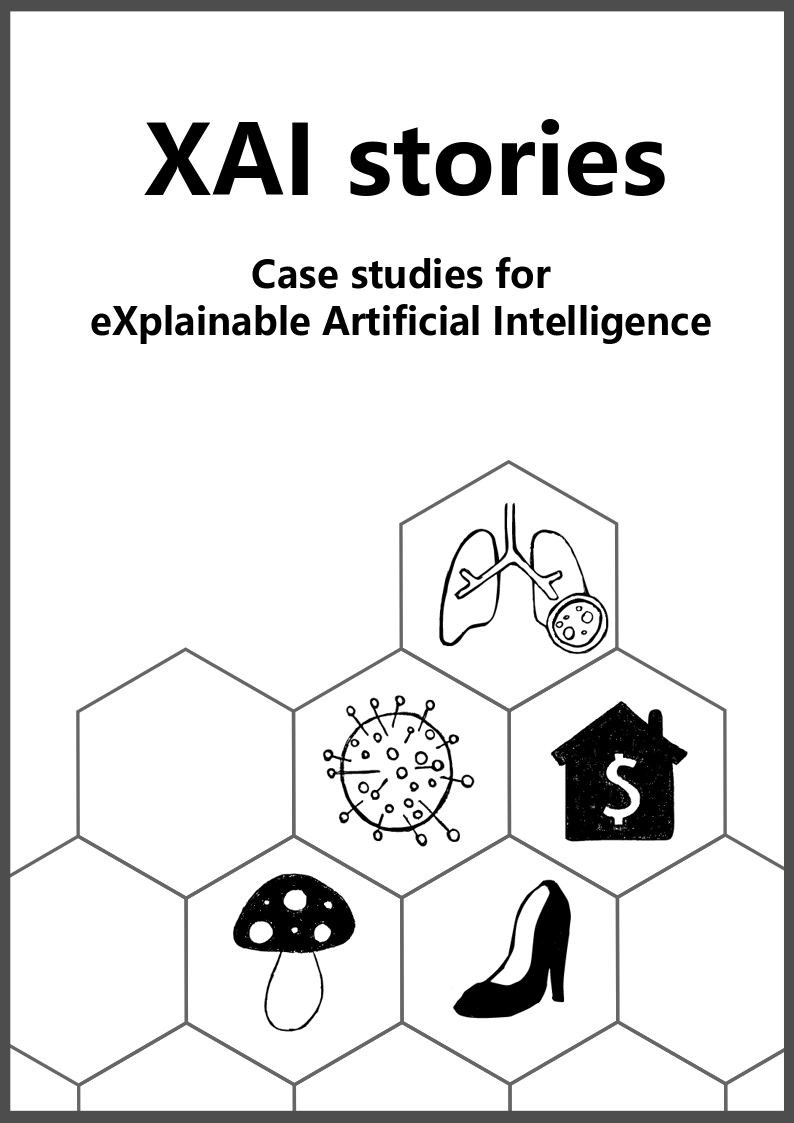
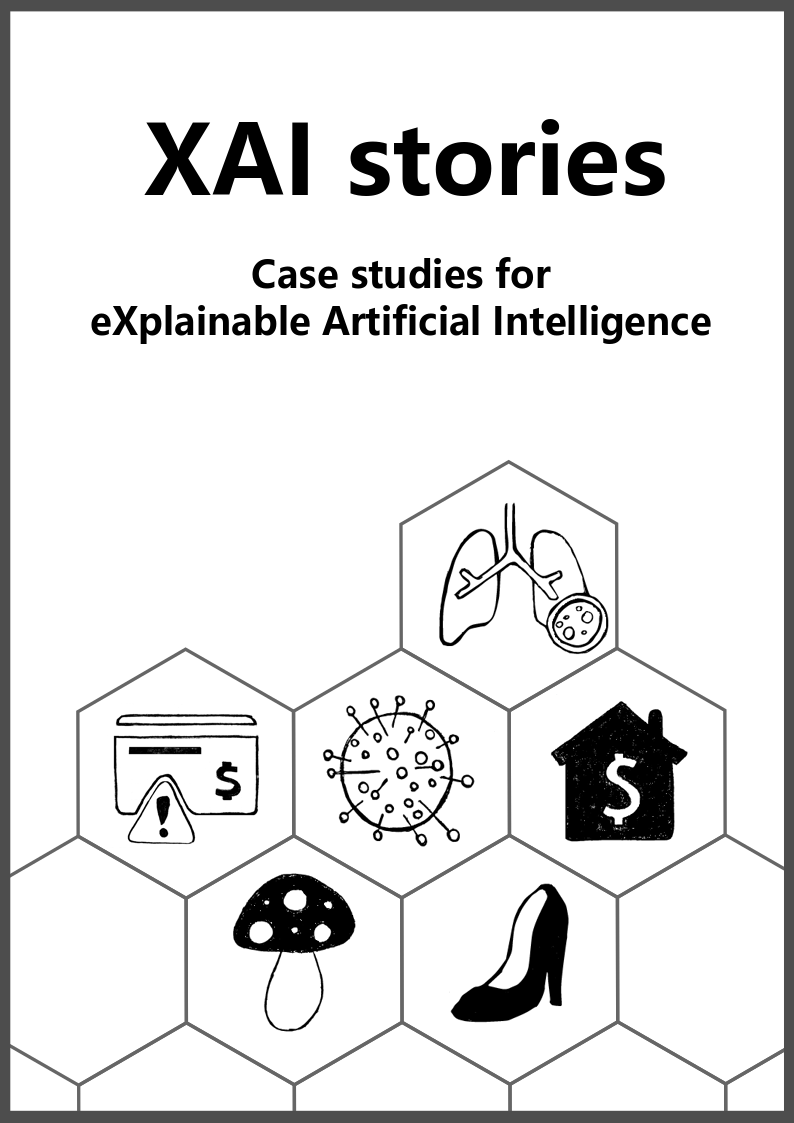
new cover

Changed region(s): [[0.1209, 0.6233, 0.3325, 0.748], [0.5743, 0.7792, 0.7254, 0.935]]

diff --git a/docs/index.html b/docs/index.html
@@ -23,7 +23,7 @@
 
 
 
-<meta name="date" content="2020-03-26" />
+<meta name="date" content="2020-03-27" />
 
   <meta name="viewport" content="width=device-width, initial-scale=1" />
   <meta name="apple-mobile-web-app-capable" content="yes" />
@@ -119,14 +119,14 @@
 <div id="header">
 <h1 class="title">XAI Stories</h1>
 <p class="author"><em></em></p>
-<p class="date"><em>2020-03-26</em></p>
+<p class="date"><em>2020-03-27</em></p>
 </div>
 <div id="preface" class="section level1 unnumbered" number="">
 <h1 class="unnumbered" number="">Preface</h1>
 <p><img src="images/cover.png" width="500" style="display: block; margin: auto;" /></p>
 <p>Machine learning has a number of applications. Very often, however, machine learning predictive models are treated as black boxes which can be automatically trained without worrying about the domain in which they are used.</p>
 <p>The development of XAI tools allows to x-ray these black boxes. In the following chapters we show example applications of different XAI techniques to real-world problems.</p>
-<p>TODO: more about how the course</p>
+<p>TODO: write more about how the course</p>
 <p>This book is the result of a student projects for <a href="https://github.com/pbiecek/InterpretableMachineLearning2020">Interpretable Machine Learning</a> course at University of Warsaw and Warsaw University of Technology. Each team has prepares one case study for selected XAI technique.</p>
 <p>This project is inspired by a fantastic book <a href="https://compstat-lmu.github.io/iml_methods_limitations/">Limitations of Interpretable Machine Learning Methods</a> created at the Department of Statistics, LMU Munich.
 We used the LIML project as cornerstone for this reopsitory.</p>

diff --git a/docs/foreword.html b/docs/foreword.html
@@ -23,7 +23,7 @@
 
 
 
-<meta name="date" content="2020-03-26" />
+<meta name="date" content="2020-03-27" />
 
   <meta name="viewport" content="width=device-width, initial-scale=1" />
   <meta name="apple-mobile-web-app-capable" content="yes" />
